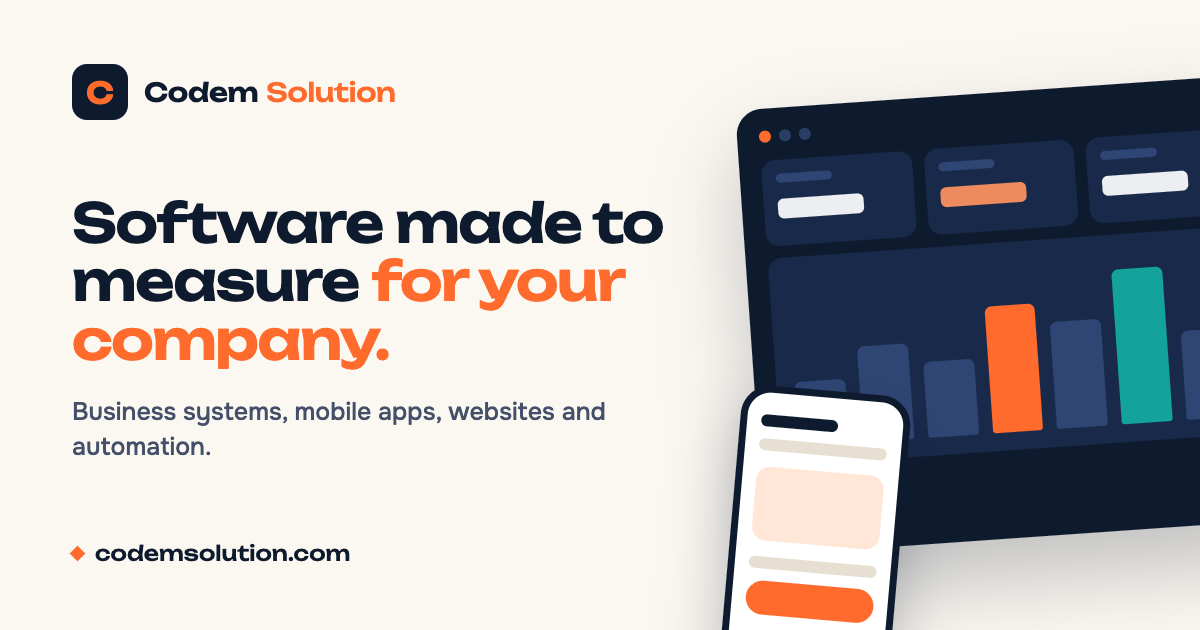
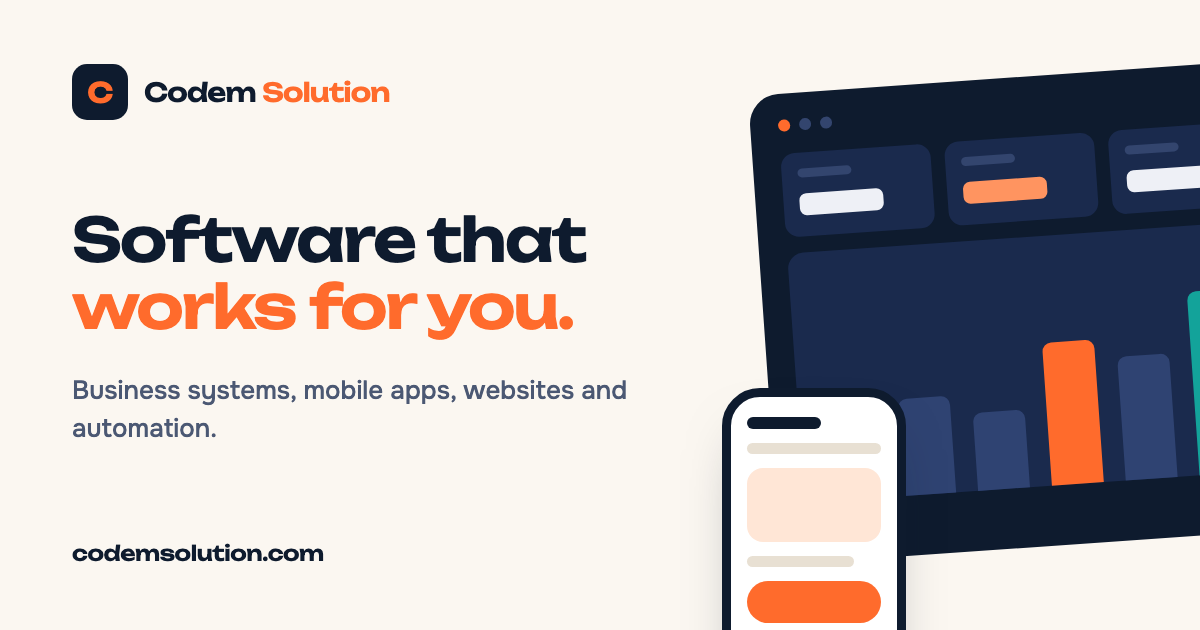
Картинката и заглавието за споделяне са с новото начало
Картинката при споделяне на връзката още показваше старото заглавие
и декоративно ромбче. Направена е наново за двата езика, заглавието
за споделяне е сменено, датите в картата на сайта са обновени.

diff --git a/index.html b/index.html
@@ -8,13 +8,13 @@
 <meta name="description" data-i18n-attr="content" data-i18n="meta.desc" content="Разработваме фирмени системи, мобилни приложения и сайтове и автоматизираме ръчната работа. Работите директно с разработчика, на предварително договорена цена.">
 <meta name="theme-color" content="#FBF7F1">
 <meta property="og:type" content="website">
-<meta property="og:title" data-i18n-attr="content" data-i18n="meta.ogtitle" content="Codem Solution | Софтуер по мярка за вашата фирма">
+<meta property="og:title" data-i18n-attr="content" data-i18n="meta.ogtitle" content="Codem Solution | Софтуер, който работи за вас">
 <meta property="og:description" data-i18n-attr="content" data-i18n="meta.ogdesc" content="Фирмени системи, мобилни приложения, сайтове и автоматизации. Работите директно с разработчика, на предварително договорена цена.">
 <meta property="og:locale" data-i18n-attr="content" data-i18n="meta.locale" content="bg_BG">
 <link rel="canonical" href="https://codemsolution.com/">
 <meta property="og:url" content="https://codemsolution.com/">
 <meta property="og:site_name" content="Codem Solution">
-<meta property="og:image" content="https://codemsolution.com/assets/img/og.png">
+<meta property="og:image" content="https://codemsolution.com/assets/img/og.png?v=2">
 <meta property="og:image:width" content="1200">
 <meta property="og:image:height" content="630">
 <meta name="twitter:card" content="summary_large_image">

diff --git a/en/index.html b/en/index.html
@@ -8,13 +8,13 @@
 <meta name="description" data-i18n-attr="content" data-i18n="meta.desc" content="We build business systems, mobile apps and websites and automate manual work. You work directly with the developer, at a price agreed in advance.">
 <meta name="theme-color" content="#FBF7F1">
 <meta property="og:type" content="website">
-<meta property="og:title" data-i18n-attr="content" data-i18n="meta.ogtitle" content="Codem Solution | Software made to measure for your company">
+<meta property="og:title" data-i18n-attr="content" data-i18n="meta.ogtitle" content="Codem Solution | Software that works for you">
 <meta property="og:description" data-i18n-attr="content" data-i18n="meta.ogdesc" content="Business systems, mobile apps, websites and automation. You work directly with the developer, at a price agreed in advance.">
 <meta property="og:locale" data-i18n-attr="content" data-i18n="meta.locale" content="en_US">
 <link rel="canonical" href="https://codemsolution.com/en/">
 <meta property="og:url" content="https://codemsolution.com/en/">
 <meta property="og:site_name" content="Codem Solution">
-<meta property="og:image" content="https://codemsolution.com/assets/img/og-en.png">
+<meta property="og:image" content="https://codemsolution.com/assets/img/og-en.png?v=2">
 <meta property="og:image:width" content="1200">
 <meta property="og:image:height" content="630">
 <meta name="twitter:card" content="summary_large_image">

diff --git a/_build_en.py b/_build_en.py
@@ -298,6 +298,7 @@ EN.update({
 # --- 22.11.2026: по-кратко начало; без обещание за отговор до един работен ден (Моньо: не можем толкова бързо) ---
 EN.update({
   "hero.l1": "Software that", "hero.l2": "works for you.",
+  "meta.ogtitle": "Codem Solution | Software that works for you",
   "hero.p": "We build business systems, mobile apps and websites. Scroll down to see what they look like from the inside.",
   "why.3h": "We speak plain language",
   "why.3p": "We explain our decisions without technical jargon, so you know what you are getting and why.",
@@ -346,7 +347,7 @@ def build():
     HEAD = [
       ('<link rel="canonical" href="https://codemsolution.com/">', '<link rel="canonical" href="https://codemsolution.com/en/">'),
       ('<meta property="og:url" content="https://codemsolution.com/">', '<meta property="og:url" content="https://codemsolution.com/en/">'),
-      ('<meta property="og:image" content="https://codemsolution.com/assets/img/og.png">', '<meta property="og:image" content="https://codemsolution.com/assets/img/og-en.png">'),
+      ('<meta property="og:image" content="https://codemsolution.com/assets/img/og.png?v=2">', '<meta property="og:image" content="https://codemsolution.com/assets/img/og-en.png?v=2">'),
       ('"legalName": "СИМБИ25 ЕООД"', '"legalName": "SIMBI25 EOOD"'),
       ('"streetAddress": "ул. Ивайло 82", "addressLocality": "Варна"', '"streetAddress": "ul. Ivaylo 82", "addressLocality": "Varna"'),
       ('"name": "България"', '"name": "Bulgaria"'),
